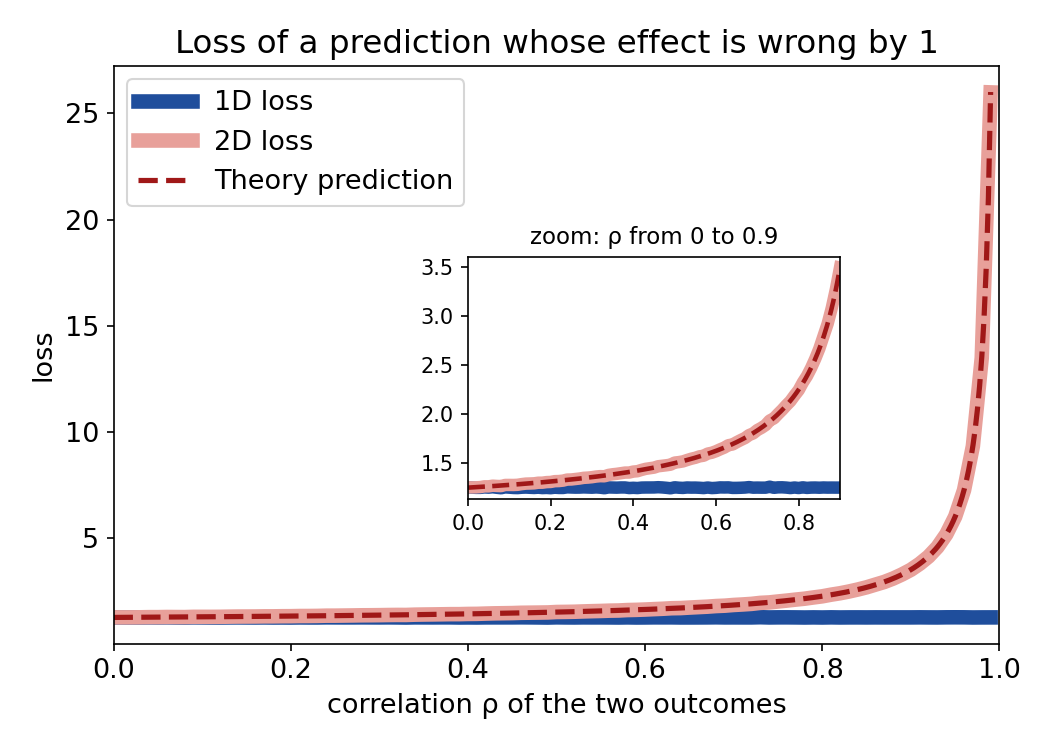
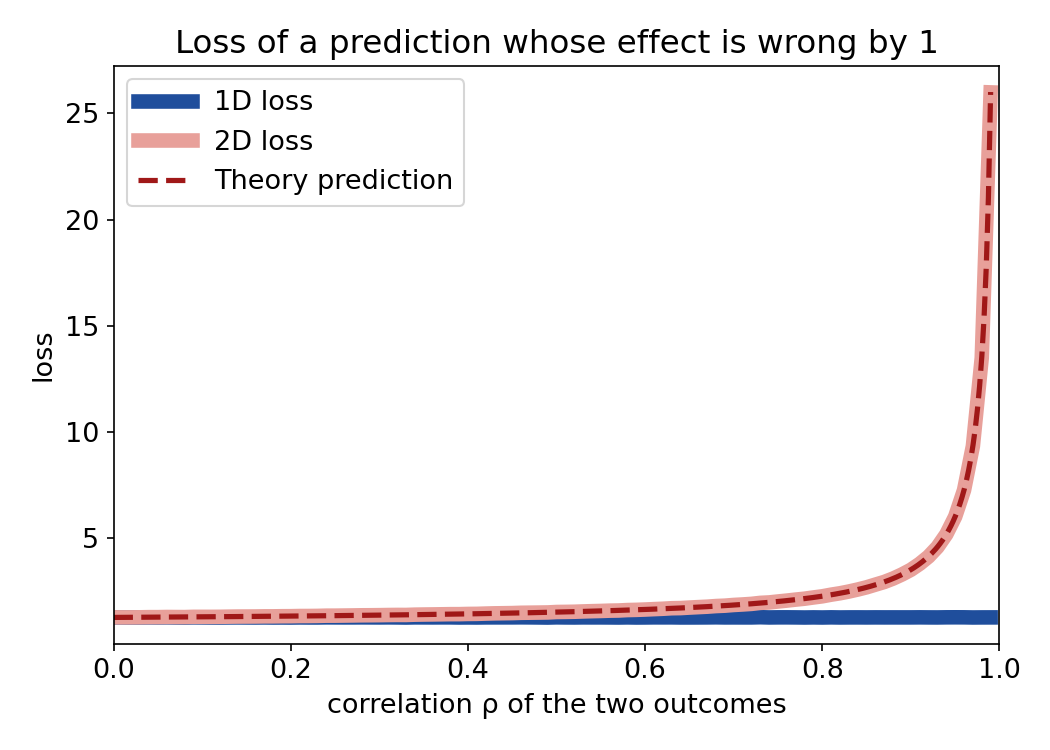
reason figure: drop the zoom inset
Claude-Session: https://claude.ai/code/session_01AZV2d6TbWGuV4cMQVAXpNa

diff --git a/revision/theory/loss_geometry/fig_reason.py b/revision/theory/loss_geometry/fig_reason.py
@@ -28,12 +28,7 @@ ax.plot(rhos, L2, "-", color="#e8a09a", lw=7, label="2D loss")
 ax.plot(fine, theory, "--", color="#a01818", lw=2.5, label="Theory prediction")
 ax.set(xlabel="correlation ρ of the two outcomes", ylabel="loss", xlim=(0, 1),
        title="Loss of a prediction whose effect is wrong by 1")
-ax.legend(fontsize=13, loc="upper left")
-ins = ax.inset_axes([0.40, 0.25, 0.42, 0.42])
-m1, m2 = rhos <= 0.9, fine <= 0.9
-ins.plot(rhos[m1], L1[m1], "-", color="#1f4e9c", lw=6); ins.plot(rhos[m1], L2[m1], "-", color="#e8a09a", lw=6)
-ins.plot(fine[m2], theory[m2], "--", color="#a01818", lw=2.2)
-ins.set(xlim=(0, 0.9), title="zoom: ρ from 0 to 0.9"); ins.tick_params(labelsize=10); ins.title.set_fontsize(11)
+ax.legend(fontsize=13, loc="upper left"); 
 fig.tight_layout()
 for ext in ("png", "pdf"): fig.savefig(os.path.join(OUT, f"reason.{ext}"), dpi=150)
 for r, a, b in list(zip(rhos, L1, L2))[::11]: print(f"rho {r:.2f}  1D {a:.3f}  2D {b:.3f}  predicted {1 + (a - 1) / (1 - r):.3f}")
